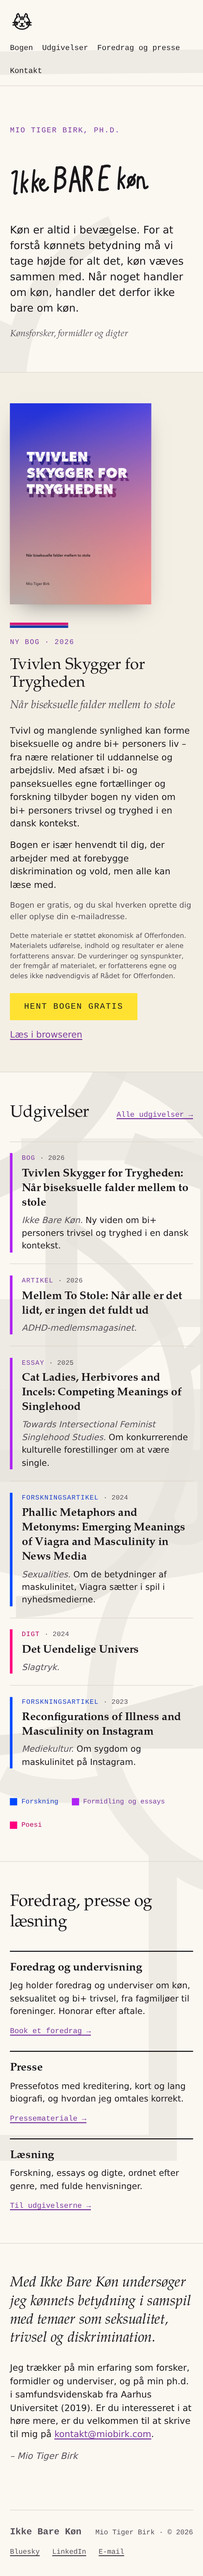
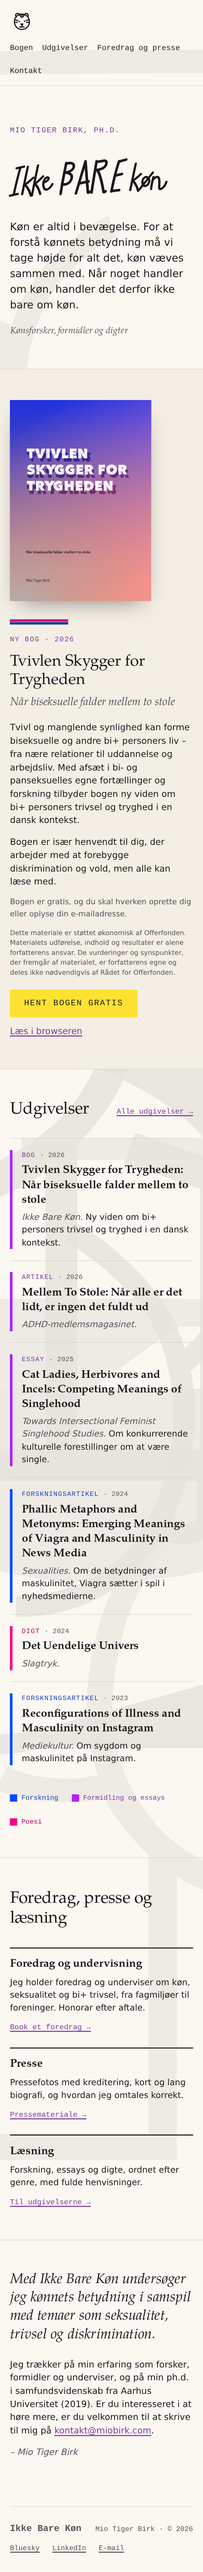
Edgier tag, real tiger
Two corrections from Ole: the tag was too cute and the tiger read as
a cat. The tag is redrawn against the handstyle fundamentals
(consistent hard lean, sharp points, long flourishes): the lettering
now leans through an added skew, the I carries slashed serifs, k legs
and the R kick end in blade flicks past the baseline, the oe-slash
overshoots the bowl, and the n exits in a long whip; BARE stays the
emphasis as pressed capitals. The tiger is redrawn on tiger cues
rather than cat ones: round ears instead of pointed, no whiskers,
three forehead stripes and two bold stripes per side, slanted eyes.

Claude-Session: https://claude.ai/code/session_01J3ibStbM354Uyysr7SDB7m

diff --git a/design/directions/retning-7-overlappet.html b/design/directions/retning-7-overlappet.html
@@ -117,7 +117,7 @@ a:focus-visible{outline:2.5px solid var(--ink);outline-offset:3px}
    like a fast hand. The emphasis on "bare" is a change of style: the
    script hand switches to pressed capitals, nothing is added. */
 .hero{position:relative;overflow:hidden}
-.tagline{display:block;width:min(46rem,94%);height:auto;transform:rotate(-2deg);margin-left:-.5rem}
+.tagline{display:block;width:min(46rem,94%);height:auto;transform:rotate(-2deg) skewX(-8deg);margin-left:-.5rem}
 .tagline path{fill:none;stroke:var(--ink);stroke-width:13;stroke-linecap:round;stroke-linejoin:round;
   stroke-dasharray:1;stroke-dashoffset:1;
   animation:tagdraw var(--d,.2s) linear var(--t,0s) forwards}
@@ -248,24 +248,23 @@ footer .flinks{display:flex;gap:1.5rem}
   <div class="wrap">
     <div class="bar">
       <a class="brand" href="#" aria-label="Mio Birk, forside">
-        <svg class="tiger" viewBox="0 0 140 120" aria-hidden="true" focusable="false" xmlns="http://www.w3.org/2000/svg">
-          <path pathLength="1" style="--d:.2s;--t:0s" d="M 44 30 C 30 40 24 58 28 74 C 33 92 52 102 70 102 C 88 102 107 92 112 74 C 116 58 110 40 96 30"/>
-          <path pathLength="1" style="--d:.08s;--t:.22s" d="M 40 36 C 38 26 40 16 48 12 C 54 20 56 26 54 32"/>
-          <path pathLength="1" style="--d:.08s;--t:.31s" d="M 100 36 C 102 26 100 16 92 12 C 86 20 84 26 86 32"/>
-          <path pathLength="1" style="--d:.04s;--t:.4s" d="M 54 56 L 54 62"/>
-          <path pathLength="1" style="--d:.04s;--t:.45s" d="M 86 56 L 86 62"/>
-          <path pathLength="1" style="--d:.06s;--t:.5s" d="M 65 70 L 75 70 L 70 77 L 65 70"/>
-          <path pathLength="1" style="--d:.05s;--t:.57s" d="M 70 77 C 70 84 63 87 58 84"/>
-          <path pathLength="1" style="--d:.05s;--t:.63s" d="M 70 77 C 70 84 77 87 82 84"/>
-          <path pathLength="1" style="--d:.05s;--t:.69s" d="M 18 64 C 28 65 37 67 43 70"/>
-          <path pathLength="1" style="--d:.05s;--t:.75s" d="M 18 78 C 28 77 37 76 43 76"/>
-          <path pathLength="1" style="--d:.05s;--t:.81s" d="M 122 64 C 112 65 103 67 97 70"/>
-          <path pathLength="1" style="--d:.05s;--t:.87s" d="M 122 78 C 112 77 103 76 97 76"/>
-          <path pathLength="1" style="--d:.04s;--t:.93s" d="M 61 32 C 62 38 62 43 61 47"/>
-          <path pathLength="1" style="--d:.04s;--t:.98s" d="M 70 30 C 70 36 70 42 70 47"/>
-          <path pathLength="1" style="--d:.04s;--t:1.03s" d="M 79 32 C 78 38 78 43 79 47"/>
-          <path pathLength="1" style="--d:.04s;--t:1.08s" d="M 33 60 C 39 61 43 63 47 65"/>
-          <path pathLength="1" style="--d:.04s;--t:1.13s" d="M 107 60 C 101 61 97 63 93 65"/>
+        <svg class="tiger" viewBox="0 0 150 130" aria-hidden="true" focusable="false" xmlns="http://www.w3.org/2000/svg">
+          <path pathLength="1" style="--d:.18s;--t:0s" d="M 75 16 C 50 16 30 36 28 60 C 26 90 48 112 75 112 C 102 112 124 90 122 60 C 120 36 100 16 75 16"/>
+          <path pathLength="1" style="--d:.07s;--t:.2s" d="M 40 34 C 32 24 36 12 48 12 C 56 12 60 18 60 24"/>
+          <path pathLength="1" style="--d:.07s;--t:.28s" d="M 110 34 C 118 24 114 12 102 12 C 94 12 90 18 90 24"/>
+          <path pathLength="1" style="--d:.03s;--t:.36s" d="M 56 60 L 60 63"/>
+          <path pathLength="1" style="--d:.03s;--t:.4s" d="M 94 60 L 90 63"/>
+          <path pathLength="1" style="--d:.05s;--t:.44s" d="M 68 78 L 82 78 L 75 86 L 68 78"/>
+          <path pathLength="1" style="--d:.04s;--t:.5s" d="M 75 86 L 75 92"/>
+          <path pathLength="1" style="--d:.04s;--t:.55s" d="M 75 92 C 75 97 67 99 62 96"/>
+          <path pathLength="1" style="--d:.04s;--t:.6s" d="M 75 92 C 75 97 83 99 88 96"/>
+          <path pathLength="1" style="--d:.04s;--t:.65s" d="M 75 20 L 75 38"/>
+          <path pathLength="1" style="--d:.04s;--t:.7s" d="M 65 22 L 67 34"/>
+          <path pathLength="1" style="--d:.04s;--t:.75s" d="M 85 22 L 83 34"/>
+          <path pathLength="1" style="--d:.05s;--t:.8s" d="M 30 52 L 48 56"/>
+          <path pathLength="1" style="--d:.05s;--t:.86s" d="M 28 68 L 46 68"/>
+          <path pathLength="1" style="--d:.05s;--t:.92s" d="M 120 52 L 102 56"/>
+          <path pathLength="1" style="--d:.05s;--t:.98s" d="M 122 68 L 104 68"/>
         </svg>
       </a>
       <nav aria-label="Hovedmenu">
@@ -284,34 +283,36 @@ footer .flinks{display:flex;gap:1.5rem}
   <section class="hero">
     <div class="wrap">
       <p class="kicker">Mio Tiger Birk, ph.d.</p>
-      <h1><span class="sr-only">Ikke bare køn</span><svg class="tagline" viewBox="0 0 1000 320" aria-hidden="true" focusable="false" xmlns="http://www.w3.org/2000/svg">
+      <h1><span class="sr-only">Ikke bare køn</span><svg class="tagline" viewBox="0 0 990 300" aria-hidden="true" focusable="false" xmlns="http://www.w3.org/2000/svg">
         <g>
-          <path pathLength="1" style="--d:.12s;--t:0s" d="M 40 118 C 50 110 60 106 66 110 C 60 146 52 192 48 230 C 47 238 54 240 60 234"/>
-          <path pathLength="1" style="--d:.06s;--t:.13s" d="M 104 110 C 97 150 92 196 90 230"/>
-          <path pathLength="1" style="--d:.07s;--t:.2s" d="M 126 160 C 116 172 106 181 96 187 C 104 193 114 212 120 228"/>
-          <path pathLength="1" style="--d:.06s;--t:.28s" d="M 168 106 C 161 147 156 196 154 230"/>
-          <path pathLength="1" style="--d:.07s;--t:.35s" d="M 190 156 C 180 168 170 177 160 183 C 168 189 178 208 184 224"/>
-          <path pathLength="1" style="--d:.09s;--t:.43s" d="M 206 192 C 220 186 228 174 222 165 C 216 157 204 163 200 178 C 195 196 202 220 216 224 C 227 227 238 219 244 208"/>
+          <path pathLength="1" style="--d:.04s;--t:0s" d="M 56 90 L 98 82"/>
+          <path pathLength="1" style="--d:.08s;--t:.05s" d="M 78 86 C 68 138 60 196 56 238"/>
+          <path pathLength="1" style="--d:.04s;--t:.14s" d="M 34 246 L 78 238"/>
+          <path pathLength="1" style="--d:.06s;--t:.19s" d="M 120 84 C 114 136 108 196 104 240"/>
+          <path pathLength="1" style="--d:.07s;--t:.26s" d="M 158 148 C 140 166 124 180 112 188 C 124 192 142 216 152 244 C 154 250 158 252 162 248"/>
+          <path pathLength="1" style="--d:.06s;--t:.34s" d="M 178 78 C 172 132 166 194 162 238"/>
+          <path pathLength="1" style="--d:.07s;--t:.41s" d="M 214 142 C 196 162 182 176 170 184 C 182 190 198 214 208 242"/>
+          <path pathLength="1" style="--d:.09s;--t:.49s" d="M 226 176 C 244 168 252 156 244 150 C 234 144 222 156 220 176 C 218 200 228 222 246 218 C 256 214 268 202 272 188"/>
         </g>
-        <g class="em">
-          <path pathLength="1" style="--d:.07s;--t:.55s" d="M 300 95 C 293 140 288 192 286 234"/>
-          <path pathLength="1" style="--d:.12s;--t:.63s" d="M 300 98 C 330 88 350 102 344 124 C 339 141 318 148 302 147 C 324 148 348 156 344 182 C 340 208 314 220 292 212"/>
-          <path pathLength="1" style="--d:.09s;--t:.76s" d="M 372 234 C 381 190 393 128 404 96 C 413 128 424 192 431 234"/>
-          <path pathLength="1" style="--d:.04s;--t:.86s" d="M 384 182 C 398 178 414 178 424 182"/>
-          <path pathLength="1" style="--d:.06s;--t:.91s" d="M 462 96 C 457 141 453 192 452 234"/>
-          <path pathLength="1" style="--d:.09s;--t:.98s" d="M 462 100 C 487 90 504 105 498 126 C 493 144 474 152 459 151 C 472 158 488 198 498 232"/>
-          <path pathLength="1" style="--d:.06s;--t:1.08s" d="M 564 98 C 551 141 545 192 543 232"/>
-          <path pathLength="1" style="--d:.03s;--t:1.15s" d="M 564 100 C 580 94 595 94 605 98"/>
-          <path pathLength="1" style="--d:.03s;--t:1.19s" d="M 555 164 C 567 160 579 160 587 163"/>
-          <path pathLength="1" style="--d:.03s;--t:1.23s" d="M 543 230 C 559 234 578 234 590 229"/>
+        <g class="em" transform="translate(34 0)">
+          <path pathLength="1" style="--d:.07s;--t:.61s" d="M 306 70 C 300 128 294 192 292 246"/>
+          <path pathLength="1" style="--d:.12s;--t:.69s" d="M 306 74 C 338 64 358 78 350 100 C 344 116 322 124 306 124 C 328 126 350 136 346 160 C 341 188 314 198 294 190"/>
+          <path pathLength="1" style="--d:.09s;--t:.82s" d="M 380 246 L 416 64 L 448 240 C 449 246 454 246 458 240"/>
+          <path pathLength="1" style="--d:.04s;--t:.92s" d="M 392 190 L 446 180"/>
+          <path pathLength="1" style="--d:.06s;--t:.97s" d="M 480 66 C 476 128 472 196 470 244"/>
+          <path pathLength="1" style="--d:.09s;--t:1.04s" d="M 480 70 L 524 64 C 538 64 542 78 534 94 C 528 106 508 114 488 116 C 504 130 524 190 538 240 C 540 247 546 247 550 240"/>
+          <path pathLength="1" style="--d:.06s;--t:1.14s" d="M 610 70 C 596 128 588 196 584 242"/>
+          <path pathLength="1" style="--d:.03s;--t:1.21s" d="M 610 72 L 650 62"/>
+          <path pathLength="1" style="--d:.03s;--t:1.25s" d="M 596 152 L 634 144"/>
+          <path pathLength="1" style="--d:.03s;--t:1.29s" d="M 584 240 L 628 236"/>
         </g>
-        <g>
-          <path pathLength="1" style="--d:.06s;--t:1.3s" d="M 668 106 C 661 148 656 198 654 230"/>
-          <path pathLength="1" style="--d:.07s;--t:1.37s" d="M 692 156 C 682 168 672 177 662 183 C 670 189 680 208 686 226"/>
-          <path pathLength="1" style="--d:.08s;--t:1.45s" d="M 740 172 C 733 160 718 163 713 178 C 708 194 717 213 731 211 C 745 209 752 190 746 177 C 743 170 741 168 740 172"/>
-          <path pathLength="1" style="--d:.04s;--t:1.54s" d="M 752 152 L 706 224"/>
-          <path pathLength="1" style="--d:.05s;--t:1.59s" d="M 770 166 C 767 186 765 208 765 228"/>
-          <path pathLength="1" style="--d:.08s;--t:1.65s" d="M 767 186 C 774 170 787 162 795 171 C 801 178 801 206 803 226 C 804 234 814 234 822 224"/>
+        <g transform="translate(60 0)">
+          <path pathLength="1" style="--d:.06s;--t:1.36s" d="M 682 88 C 676 140 670 198 666 238"/>
+          <path pathLength="1" style="--d:.07s;--t:1.43s" d="M 718 148 C 700 166 686 178 674 186 C 686 192 702 216 712 244"/>
+          <path pathLength="1" style="--d:.08s;--t:1.51s" d="M 762 174 C 752 160 736 166 732 184 C 728 204 740 222 756 216 C 770 210 774 190 766 176"/>
+          <path pathLength="1" style="--d:.04s;--t:1.6s" d="M 786 142 L 716 240"/>
+          <path pathLength="1" style="--d:.05s;--t:1.65s" d="M 792 168 C 788 192 786 214 786 236"/>
+          <path pathLength="1" style="--d:.08s;--t:1.71s" d="M 788 190 C 796 172 812 162 822 172 C 830 180 830 208 832 232 C 833 242 846 240 858 226 C 864 218 868 208 870 198"/>
         </g>
       </svg></h1>
       <p class="standfirst">Køn er altid i bevægelse. For at forstå kønnets

diff --git a/design/TYPOGRAPHY-COLOUR.md b/design/TYPOGRAPHY-COLOUR.md
@@ -270,17 +270,26 @@ the drawing runs everywhere, including surfaces that strip scripts.
 Static final state under prefers-reduced-motion.
 
 - **The hero title is a tag.** "Ikke bare køn" hand-lettered as a
-  quick thick-marker tag (stroke 13 in a 1000-unit viewBox, rotated
-  -2deg), drawn in roughly 1.7 seconds. The emphasis that used to be
-  the purple mark under "bare" is now a change of style inside the
-  lettering itself: the script hand switches to pressed capitals
-  (stroke 15) for BARE and back. Nothing is added, the writing just
-  leans on the word. The h1 keeps a visually-hidden text node, so
-  semantics and search read "Ikke bare køn" as before.
+  quick thick-marker tag (stroke 13 in a 990-unit viewBox), drawn in
+  roughly 1.8 seconds. Ole judged the first pass too cute, so the
+  hand was redrawn against the handstyle literature (consistent hard
+  lean, sharp points, long connected flourishes, rhythm over
+  neatness): the whole tag now leans through rotate(-2deg)
+  skewX(-8deg), the capital I carries slashed serifs, the k legs and
+  the R kick end in blade flicks that overshoot the baseline, the ø
+  slash runs far beyond the bowl, and the n exits in a long whip.
+  The emphasis that used to be the purple mark under "bare" is a
+  change of style inside the lettering itself: the script hand
+  switches to pressed capitals (stroke 15) for BARE and back.
+  Nothing is added, the writing just leans on the word. The h1 keeps
+  a visually-hidden text node, so semantics and search read "Ikke
+  bare køn" as before.
 - **No wordmark in the masthead.** In its place a very simple tiger
-  (her middle name) in the same pen: head, ears, eyes, nose, mouth,
-  whiskers, forehead and cheek stripes, seventeen quick strokes. It
-  is the home link, aria-labelled, and draws itself in about a
+  (her middle name) in the same pen. The first pass read as a cat:
+  pointed ears and whiskers are cat signals. The redraw uses the
+  tiger's own cues instead: small round ears, three forehead
+  stripes, two bold stripes entering from each side, slanted eyes.
+  Sixteen strokes, the home link, aria-labelled, drawn in about a
   second.
 - A first pass drew "Mio Birk" as a signature tag in the masthead;
   Ole redirected the tag to the hero text and replaced the masthead
